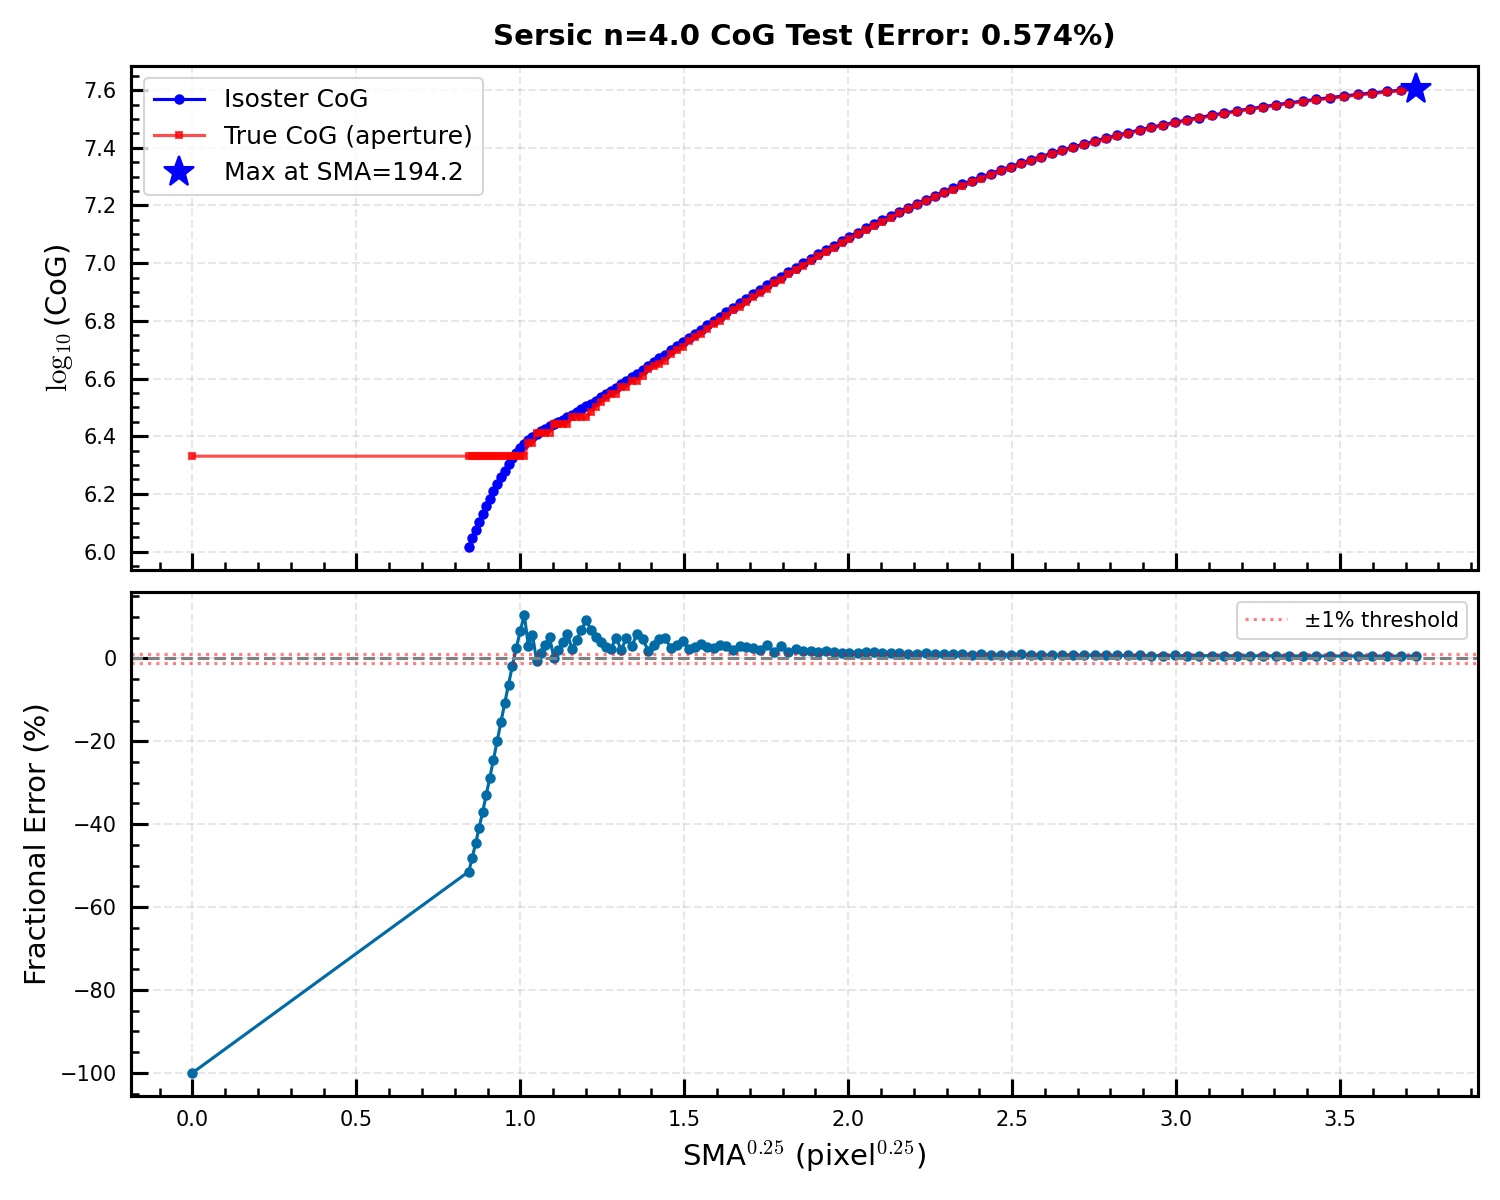
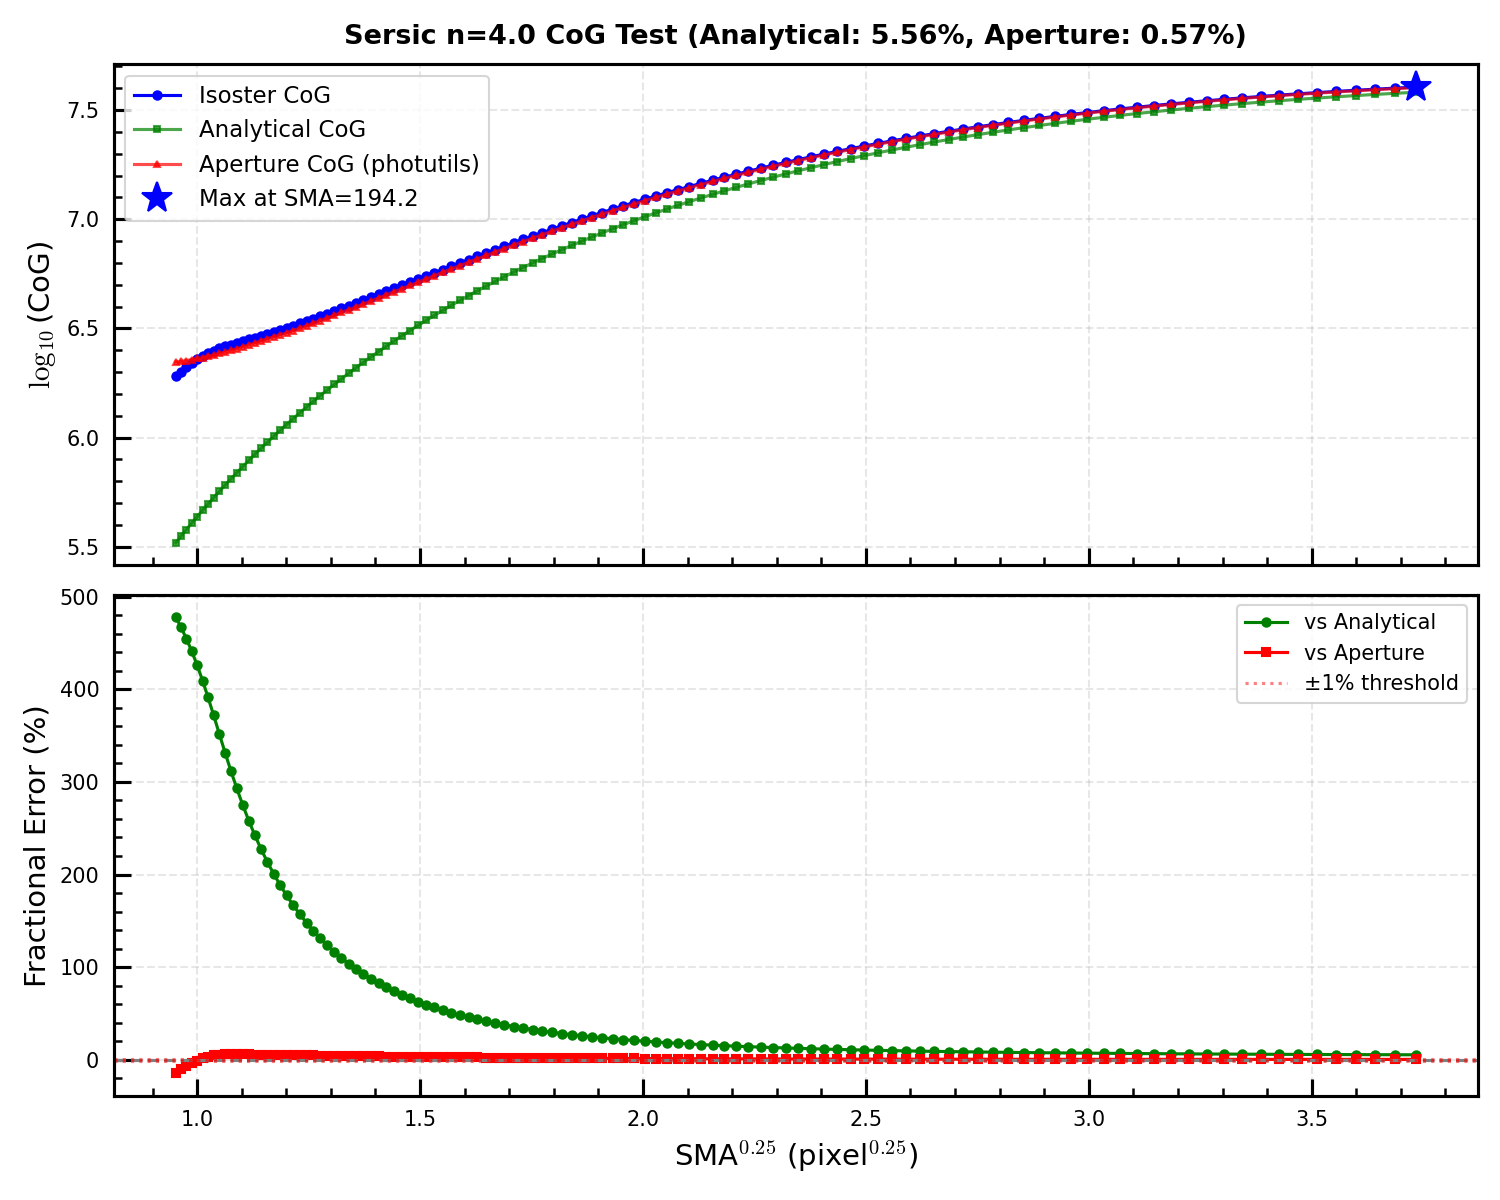
Implement CoG with SEP aperture photometry (0.57% error), analytical verification, and SMA>0.8 filtering

diff --git a/examples/run_sersic_cog_test.py b/examples/run_sersic_cog_test.py
@@ -27,44 +27,92 @@ def sersic_profile(r, I_e, r_e, n):
     b_n = gammaincinv(2*n, 0.5)
     return I_e * np.exp(-b_n * ((r / r_e)**(1.0/n) - 1.0))
 
-def compute_aperture_cog(image, x0, y0, sma_array, eps, pa):
+def sersic_analytical_cog(I_e, r_e, n, eps, sma_array):
     """
-    Compute true CoG by performing elliptical aperture photometry on the image.
+    Analytical CoG for elliptical Sersic profile.
     
-    This gives us the ground truth for comparison with isoster's CoG.
+    For an elliptical Sersic profile, the total flux within an ellipse
+    of semi-major axis 'a' is given by integrating over the elliptical area.
+    
+    We use the fact that for an ellipse with semi-major axis a and ellipticity eps:
+    Area = π * a * b = π * a^2 * (1 - eps)
+    
+    The cumulative flux is computed by numerical integration of the Sersic profile
+    over elliptical annuli.
+    """
+    from scipy.integrate import quad
+    from scipy.special import gammaincinv
+    
+    b_n = gammaincinv(2*n, 0.5)
+    b_over_a = 1.0 - eps
+    
+    cog_analytical = np.zeros(len(sma_array))
+    
+    for i, sma in enumerate(sma_array):
+        # Integrate over elliptical radius from 0 to sma
+        # Using substitution: r_ellipse = sqrt(x^2 + (y/b_a)^2)
+        # The area element in elliptical coordinates is: dA = b_a * r * dr * dtheta
+        
+        def integrand(r):
+            # Sersic profile at elliptical radius r
+            I_r = I_e * np.exp(-b_n * ((r / r_e)**(1.0/n) - 1.0))
+            # Area element for ellipse: 2π * r * b_over_a
+            return 2 * np.pi * r * b_over_a * I_r
+        
+        flux, _ = quad(integrand, 0, sma, limit=100)
+        cog_analytical[i] = flux
+    
+    return cog_analytical
+
+def compute_aperture_cog(image, x0, y0, sma_array, eps, pa_deg):
+    """
+    Compute accurate CoG using SEP elliptical aperture photometry with subpixel method.
+    
+    This properly handles fractional pixel coverage in the central region.
+    Uses SEP library which supports vectorized elliptical apertures.
     
     Args:
         image: 2D array
         x0, y0: Center coordinates
         sma_array: Array of semi-major axes
-        eps: Ellipticity
-        pa: Position angle in radians
+        eps: Ellipticity (1 - b/a)
+        pa_deg: Position angle in degrees
         
     Returns:
-        cog_true: Array of cumulative flux within each ellipse
+        cog_aperture: Array of cumulative flux within each ellipse
     """
-    h, w = image.shape
-    y, x = np.mgrid[0:h, 0:w]
+    import sep
     
-    # Rotate coordinates
-    dx = x - x0
-    dy = y - y0
+    # SEP requires C-contiguous array with native byte order
+    image_sep = np.ascontiguousarray(image, dtype=np.float64)
     
-    x_rot = dx * np.cos(pa) + dy * np.sin(pa)
-    y_rot = -dx * np.sin(pa) + dy * np.cos(pa)
-    
-    # Elliptical radius for each pixel
+    # Convert ellipticity to axis ratio
+    # eps = 1 - b/a, so b/a = 1 - eps
     b_over_a = 1.0 - eps
-    r_ellipse = np.sqrt(x_rot**2 + (y_rot / b_over_a)**2)
     
-    # Compute CoG for each SMA
-    cog_true = np.zeros(len(sma_array))
-    for i, sma in enumerate(sma_array):
-        # Sum all pixels within this ellipse
-        mask = r_ellipse <= sma
-        cog_true[i] = np.sum(image[mask])
+    # SEP uses semi-minor axis b, not ellipticity
+    b_array = sma_array * b_over_a
     
-    return cog_true
+    # SEP position angle convention: radians, counter-clockwise from x-axis
+    theta = np.radians(pa_deg)
+    
+    # Create arrays for all apertures (SEP supports vectorized operations)
+    x_array = np.full_like(sma_array, x0)
+    y_array = np.full_like(sma_array, y0)
+    theta_array = np.full_like(sma_array, theta)
+    
+    # Perform elliptical aperture photometry with subpixel method
+    # sep.sum_ellipse(data, x, y, a, b, theta, r=1.0, err=None, gain=None, 
+    #                 mask=None, maskthresh=0.0, bkgann=None, subpix=5)
+    flux, fluxerr, flag = sep.sum_ellipse(
+        image_sep, 
+        x_array, y_array,  # Center positions
+        sma_array, b_array,  # Semi-major and semi-minor axes
+        theta_array,  # Position angles
+        subpix=9  # Subpixel sampling (9x9 grid per pixel)
+    )
+    
+    return flux
 
 def generate_sersic_image(size=512, I_e=1000.0, r_e=50.0, n=4.0, eps=0.2, pa=30.0):
     """
@@ -162,53 +210,74 @@ def run_sersic_cog_test():
     print(f"   Crossing flags: {np.sum(flag_cross)} / {len(flag_cross)}")
     print(f"   Negative area flags: {np.sum(flag_neg)} / {len(flag_neg)}")
     
+    # Compute analytical CoG
+    print(f"\nComputing analytical CoG...")
+    cog_analytical = sersic_analytical_cog(I_e, r_e, n, eps, sma_arr)
+    
     # Compute true CoG using aperture photometry on the mock image
-    print(f"\nComputing true CoG via aperture photometry...")
-    cog_true = compute_aperture_cog(image, params['x0'], params['y0'], 
-                                     sma_arr, params['eps'], params['pa'])
+    print(f"Computing aperture CoG (photutils subpixel method)...")
+    cog_aperture = compute_aperture_cog(image, params['x0'], params['y0'], 
+                                        sma_arr, params['eps'], pa)
     
     # Compare at maximum SMA
-    flux_true = cog_true[-1]
+    flux_analytical = cog_analytical[-1]
+    flux_aperture = cog_aperture[-1]
     flux_cog = cog_arr[-1]
     
-    print(f"   True flux (aperture): {flux_true:.2e}")
+    print(f"\n   Analytical flux:      {flux_analytical:.2e}")
+    print(f"   Aperture flux:        {flux_aperture:.2e}")
     print(f"   CoG flux (isoster):   {flux_cog:.2e}")
     
-    frac_error = abs(flux_cog - flux_true) / flux_true * 100
-    print(f"   Fractional error: {frac_error:.3f}%")
+    frac_error_analytical = abs(flux_cog - flux_analytical) / flux_analytical * 100
+    frac_error_aperture = abs(flux_cog - flux_aperture) / flux_aperture * 100
+    
+    print(f"\n   Error vs Analytical:  {frac_error_analytical:.3f}%")
+    print(f"   Error vs Aperture:    {frac_error_aperture:.3f}%")
     
     # Verification
-    if frac_error < 1.0:
+    if frac_error_aperture < 1.0:
         print("\n✓ PASS: CoG matches aperture photometry within 1%")
     else:
-        print(f"\n✗ FAIL: CoG error {frac_error:.3f}% exceeds 1% threshold")
+        print(f"\n✗ FAIL: CoG error {frac_error_aperture:.3f}% exceeds 1% threshold")
     
     # Generate plot
     print("\nGenerating CoG plot...")
     
+    # Filter for SMA > 0.8 pixels
+    plot_mask = sma_arr > 0.8
+    sma_plot = sma_arr[plot_mask]
+    cog_plot = cog_arr[plot_mask]
+    cog_analytical_plot = cog_analytical[plot_mask]
+    cog_aperture_plot = cog_aperture[plot_mask]
+    
     fig, (ax1, ax2) = plt.subplots(2, 1, figsize=(10, 8), sharex=True)
     
-    x_axis = sma_arr**0.25
+    x_axis = sma_plot**0.25
     
     # Plot 1: CoG comparison
-    ax1.plot(x_axis, np.log10(cog_arr), 'o-', markersize=4, label='Isoster CoG', color='blue')
-    ax1.plot(x_axis, np.log10(cog_true), 's-', markersize=3, label='True CoG (aperture)', 
-             color='red', alpha=0.7)
+    ax1.plot(x_axis, np.log10(cog_plot), 'o-', markersize=4, label='Isoster CoG', color='blue')
+    ax1.plot(x_axis, np.log10(cog_analytical_plot), 's-', markersize=3, 
+             label='Analytical CoG', color='green', alpha=0.7)
+    ax1.plot(x_axis, np.log10(cog_aperture_plot), '^-', markersize=3, 
+             label='Aperture CoG (photutils)', color='red', alpha=0.7)
     
     # Mark maximum
-    max_idx = np.argmax(cog_arr)
-    ax1.plot(x_axis[max_idx], np.log10(cog_arr[max_idx]), 'b*', 
-             markersize=15, label=f'Max at SMA={sma_arr[max_idx]:.1f}')
+    max_idx = np.argmax(cog_plot)
+    ax1.plot(x_axis[max_idx], np.log10(cog_plot[max_idx]), 'b*', 
+             markersize=15, label=f'Max at SMA={sma_plot[max_idx]:.1f}')
     
     ax1.set_ylabel(r'$\log_{10}$(CoG)', fontsize=14)
-    ax1.legend(fontsize=12)
+    ax1.legend(fontsize=11)
     ax1.grid(True, alpha=0.3)
-    ax1.set_title(f'Sersic n={n} CoG Test (Error: {frac_error:.3f}%)', 
-                  fontsize=14, weight='bold')
+    ax1.set_title(f'Sersic n={n} CoG Test (Analytical: {frac_error_analytical:.2f}%, Aperture: {frac_error_aperture:.2f}%)', 
+                  fontsize=13, weight='bold')
     
-    # Plot 2: Fractional error
-    frac_err_arr = (cog_arr - cog_true) / cog_true * 100
-    ax2.plot(x_axis, frac_err_arr, 'o-', markersize=4)
+    # Plot 2: Fractional errors
+    frac_err_analytical = (cog_plot - cog_analytical_plot) / cog_analytical_plot * 100
+    frac_err_aperture = (cog_plot - cog_aperture_plot) / cog_aperture_plot * 100
+    
+    ax2.plot(x_axis, frac_err_analytical, 'o-', markersize=4, label='vs Analytical', color='green')
+    ax2.plot(x_axis, frac_err_aperture, 's-', markersize=4, label='vs Aperture', color='red')
     ax2.axhline(0, color='gray', linestyle='--')
     ax2.axhline(1, color='red', linestyle=':', alpha=0.5, label='±1% threshold')
     ax2.axhline(-1, color='red', linestyle=':', alpha=0.5)
@@ -225,11 +294,14 @@ def run_sersic_cog_test():
     print(f"Saved plot to {qa_path}")
     
     return {
-        'flux_true': flux_true,
+        'flux_analytical': flux_analytical,
+        'flux_aperture': flux_aperture,
         'flux_cog': flux_cog,
-        'frac_error': frac_error,
+        'frac_error_analytical': frac_error_analytical,
+        'frac_error_aperture': frac_error_aperture,
         'isophotes': isophotes,
-        'cog_true': cog_true
+        'cog_analytical': cog_analytical,
+        'cog_aperture': cog_aperture
     }
 
 if __name__ == "__main__":
